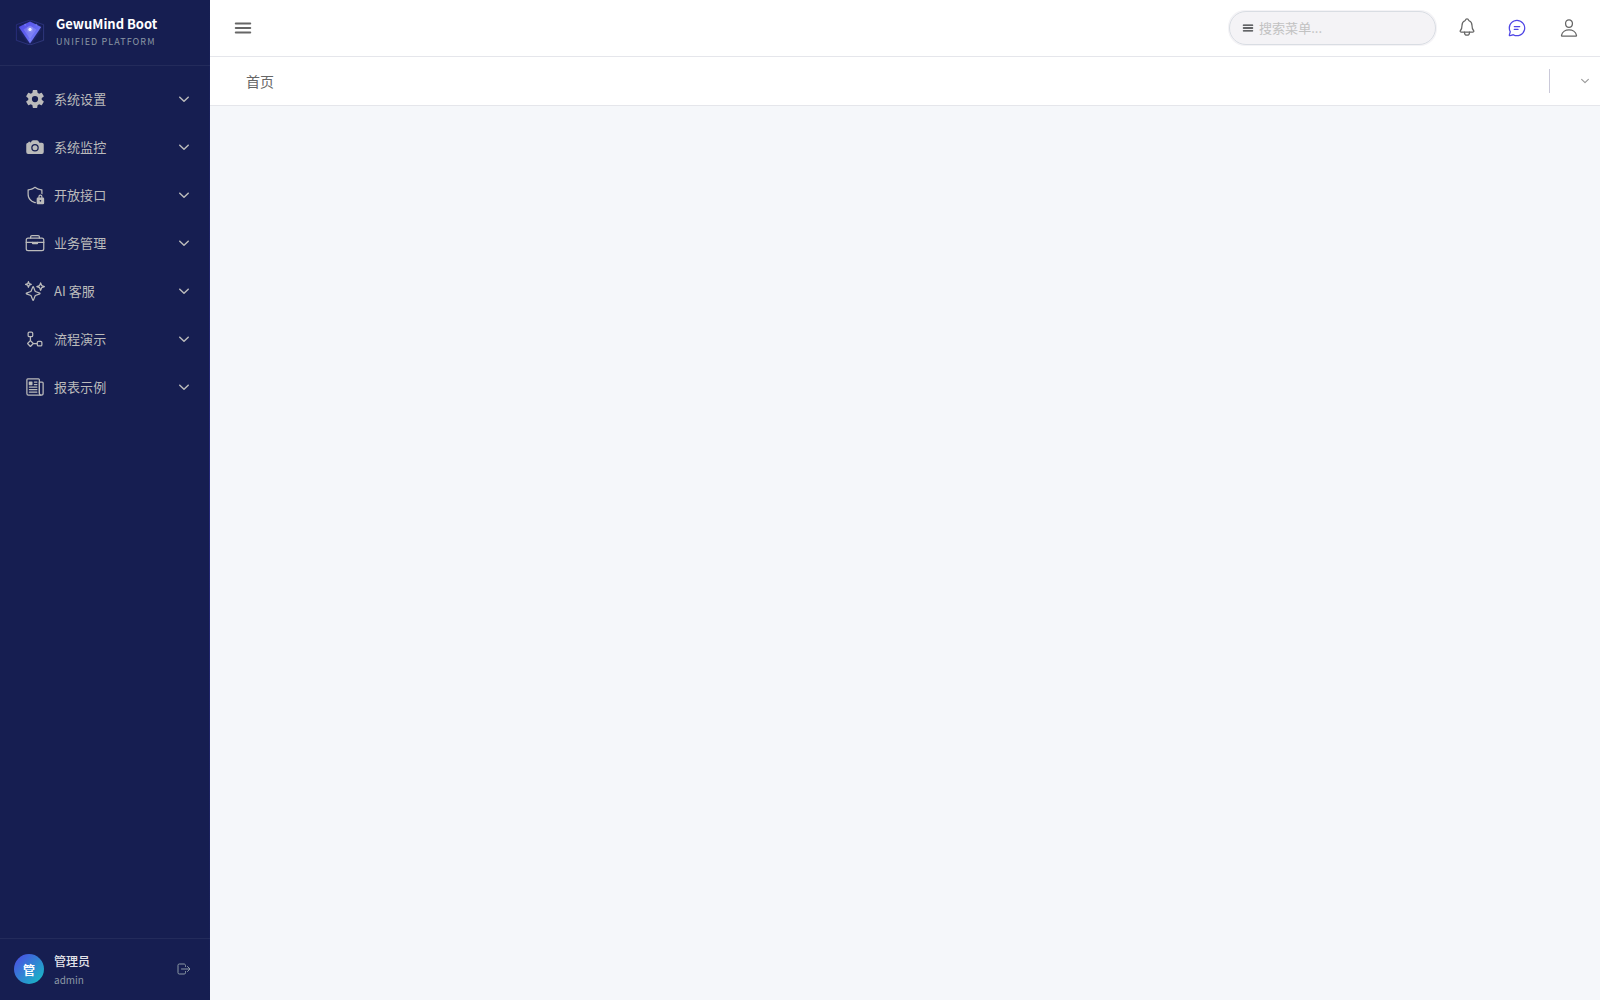
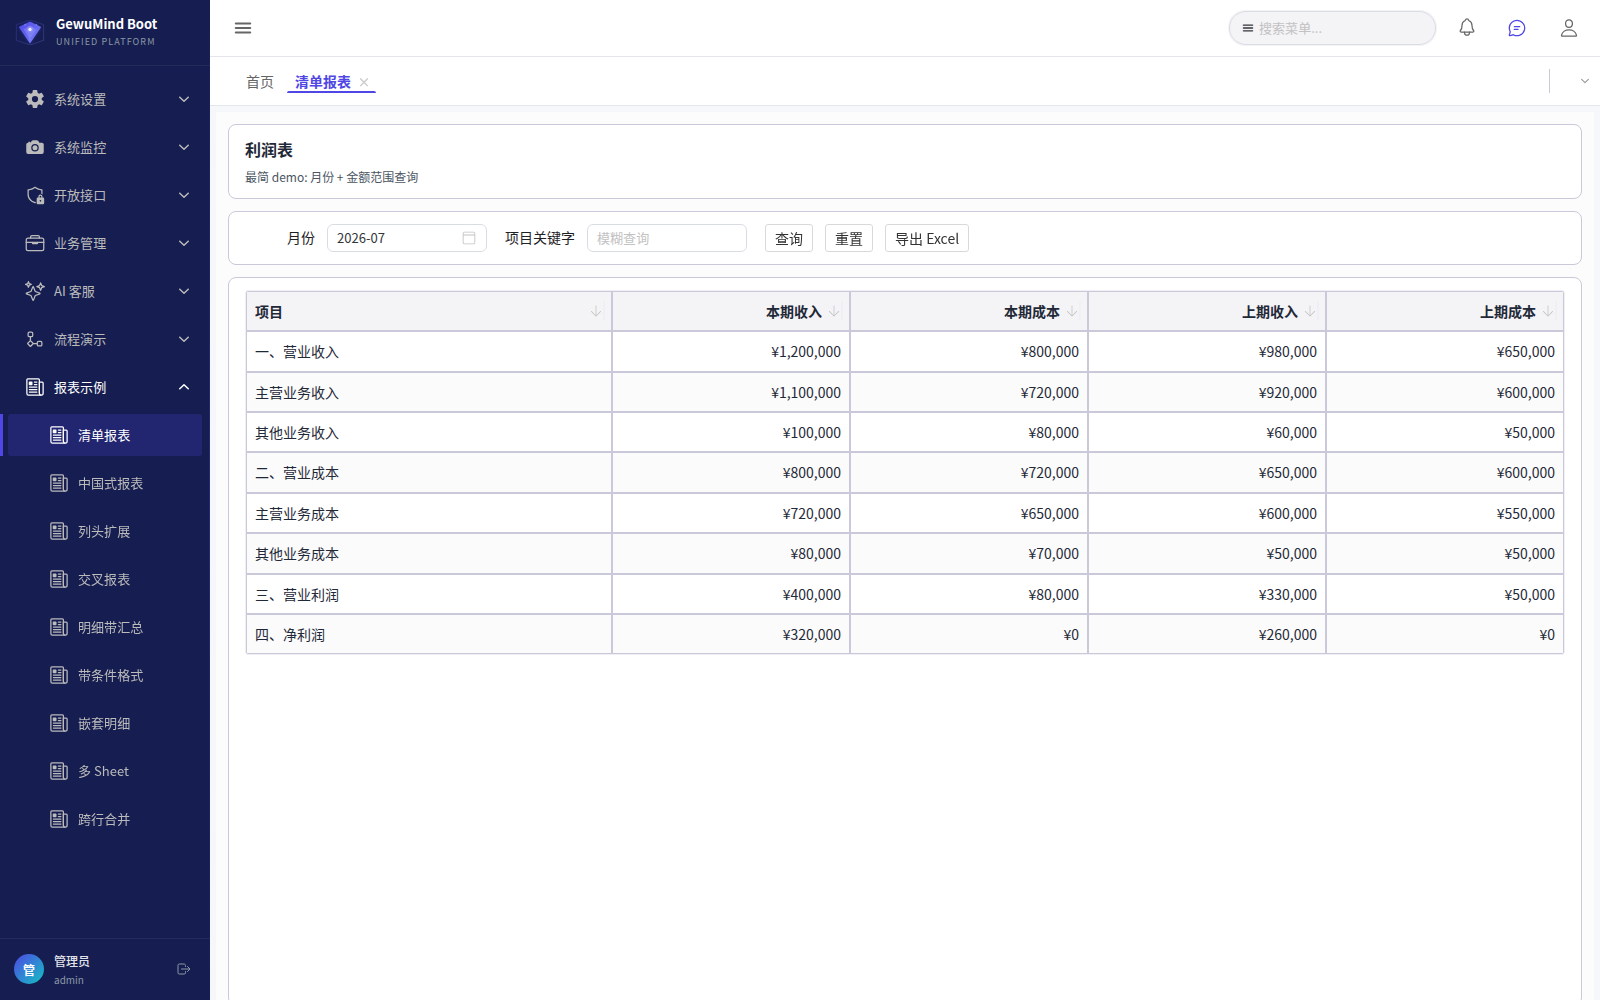
docs: fix README screenshot layout and refresh empty captures
Show theme/add-user/send-message inline, restore login/operation logs, remove database monitor, add access-log data, workflow definition and real report/workflow captures.

diff --git a/README.en.md b/README.en.md
@@ -141,19 +141,10 @@ Trusted AI support does not query the database directly: the model may only call
 | ![Data dictionary](docs/en/screenshots/08-data-dictionary.png) | ![Module management](docs/en/screenshots/09-module-management.png) | ![Message management](docs/en/screenshots/10-message-management.png) |
 | **Dictionaries** — one place for enum values | **Modules** — licensed capabilities | **Messages** — notices, todos, system messages |
 
-<details>
-<summary><b>User management · add user</b></summary>
-
-![Add user](docs/en/screenshots/03b-user-management-add-user.png)
-
-</details>
-
-<details>
-<summary><b>Message management · send message</b></summary>
-
-![Send message](docs/en/screenshots/10b-message-management-send-message.png)
-
-</details>
+| | | |
+|---|---|---|
+| ![Theme picker](docs/en/screenshots/02b-configuration-center-theme.png) | ![Add user](docs/en/screenshots/03b-user-management-add-user.png) | ![Send message](docs/en/screenshots/10b-message-management-send-message.png) |
+| **Configuration center · theme** — 13 presets + custom color | **Users · add user** — organization / roles / position | **Messages · send** — notices / todos / notifications |
 
 ### System monitor
 
@@ -161,8 +152,8 @@ Trusted AI support does not query the database directly: the model may only call
 |---|---|
 | ![Online users](docs/en/screenshots/11-online-users.png) | ![Login logs](docs/en/screenshots/12-login-logs.png) |
 | **Online users** — sessions and force logout | **Login logs** — who signed in |
-| ![Operation logs](docs/en/screenshots/13-operation-logs.png) | ![Database monitor](docs/en/screenshots/14-database-monitoring.png) |
-| **Operation logs** — who changed what | **Database monitor** — Druid pool and slow SQL |
+| ![Operation logs](docs/en/screenshots/13-operation-logs.png) | |
+| **Operation logs** — who changed what | |
 
 ### Open API (gateway)
 
@@ -189,10 +180,10 @@ Seven tabs for seven kinds of editable resource — **changes take effect on sav
 
 ### Reports
 
-| |
-|---|
-| ![Report example](docs/en/screenshots/19-report-example.png) |
-| **Report example** — monthly sales / inventory / budget vs actual |
+| | |
+|---|---|
+| ![Report example](docs/en/screenshots/19-report-example.png) | ![Workflow example](docs/en/screenshots/20-workflow-example.png) |
+| **Report example** — real profit statement with filters | **Workflow example** — leave request form + flow chart |
 
 ### Walkthroughs (GIF)
 

diff --git a/README.md b/README.md
@@ -138,26 +138,10 @@ bash scripts/start.sh
 | ![数据字典](docs/zh/screenshots/08-数据字典.png) | ![模块管理](docs/zh/screenshots/09-模块管理.png) | ![消息管理](docs/zh/screenshots/10-消息管理.png) |
 | **数据字典** —— 枚举值统一维护 | **模块管理** —— 商业授权能力 | **消息管理** —— 公告 / 待办 / 系统消息 |
 
-<details>
-<summary><b>配置中心 · 主题选择</b>（13 套预设皮肤 + 自定义取色）</summary>
-
-![主题选择](docs/zh/screenshots/02b-配置中心-主题选择.png)
-
-</details>
-
-<details>
-<summary><b>用户管理 · 新增用户</b></summary>
-
-![新增用户](docs/zh/screenshots/03b-用户管理-新增用户.png)
-
-</details>
-
-<details>
-<summary><b>消息管理 · 发送消息</b></summary>
-
-![发送消息](docs/zh/screenshots/10b-消息管理-发送消息.png)
-
-</details>
+| | | |
+|---|---|---|
+| ![主题选择](docs/zh/screenshots/02b-配置中心-主题选择.png) | ![新增用户](docs/zh/screenshots/03b-用户管理-新增用户.png) | ![发送消息](docs/zh/screenshots/10b-消息管理-发送消息.png) |
+| **配置中心 · 主题选择** —— 13 套预设皮肤 + 自定义取色 | **用户管理 · 新增用户** —— 组织 / 角色 / 岗位 | **消息管理 · 发送消息** —— 公告 / 待办 / 通知 |
 
 ### 系统监控
 
@@ -165,8 +149,6 @@ bash scripts/start.sh
 |---|---|---|
 | ![在线用户](docs/zh/screenshots/11-在线用户.png) | ![登录日志](docs/zh/screenshots/12-登录日志.png) | ![操作日志](docs/zh/screenshots/13-操作日志.png) |
 | **在线用户** —— 会话管理、一键踢人 | **登录日志** —— 谁进来了 | **操作日志** —— 谁改了什么 |
-| ![数据库监控](docs/zh/screenshots/14-数据库监控.png) | | |
-| **数据库监控** —— Druid 连接池与慢 SQL | | |
 
 ### 开放接口（API 网关）
 
@@ -193,7 +175,7 @@ bash scripts/start.sh
 | | |
 |---|---|
 | ![报表示例](docs/zh/screenshots/19-报表示例.png) | ![流程演示](docs/zh/screenshots/20-流程演示.png) |
-| **报表示例** —— 月度销售/库存/预算执行 | **流程演示** —— 报销/请假/采购审批 |
+| **报表示例** —— 清单报表，真实金额与查询条件 | **流程演示** —— 请假审批表单 + 流程图 |
 
 ### 操作演示（GIF）
 
